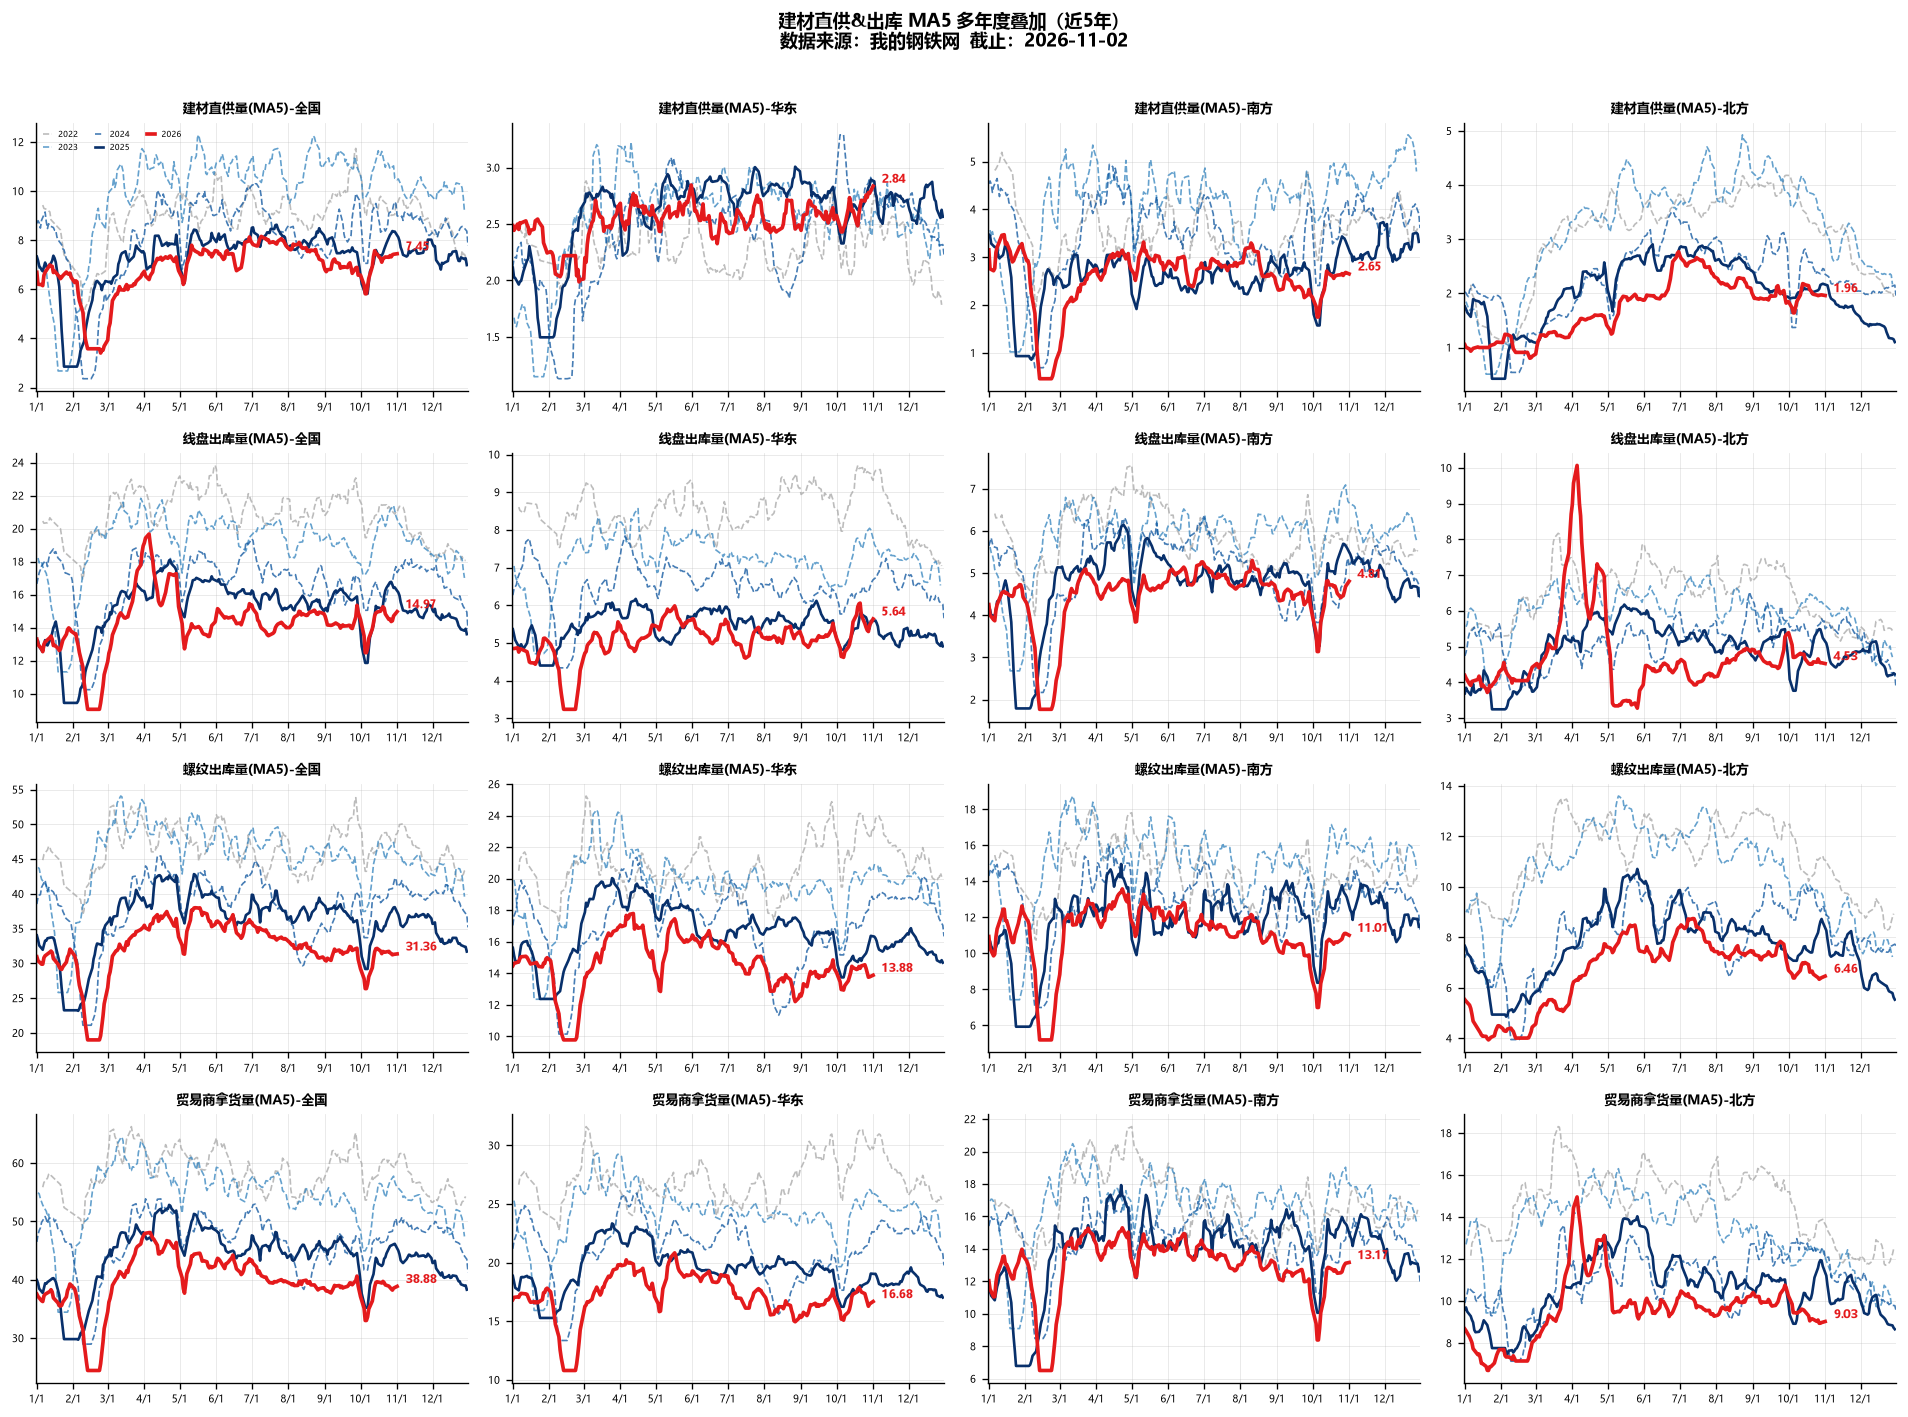
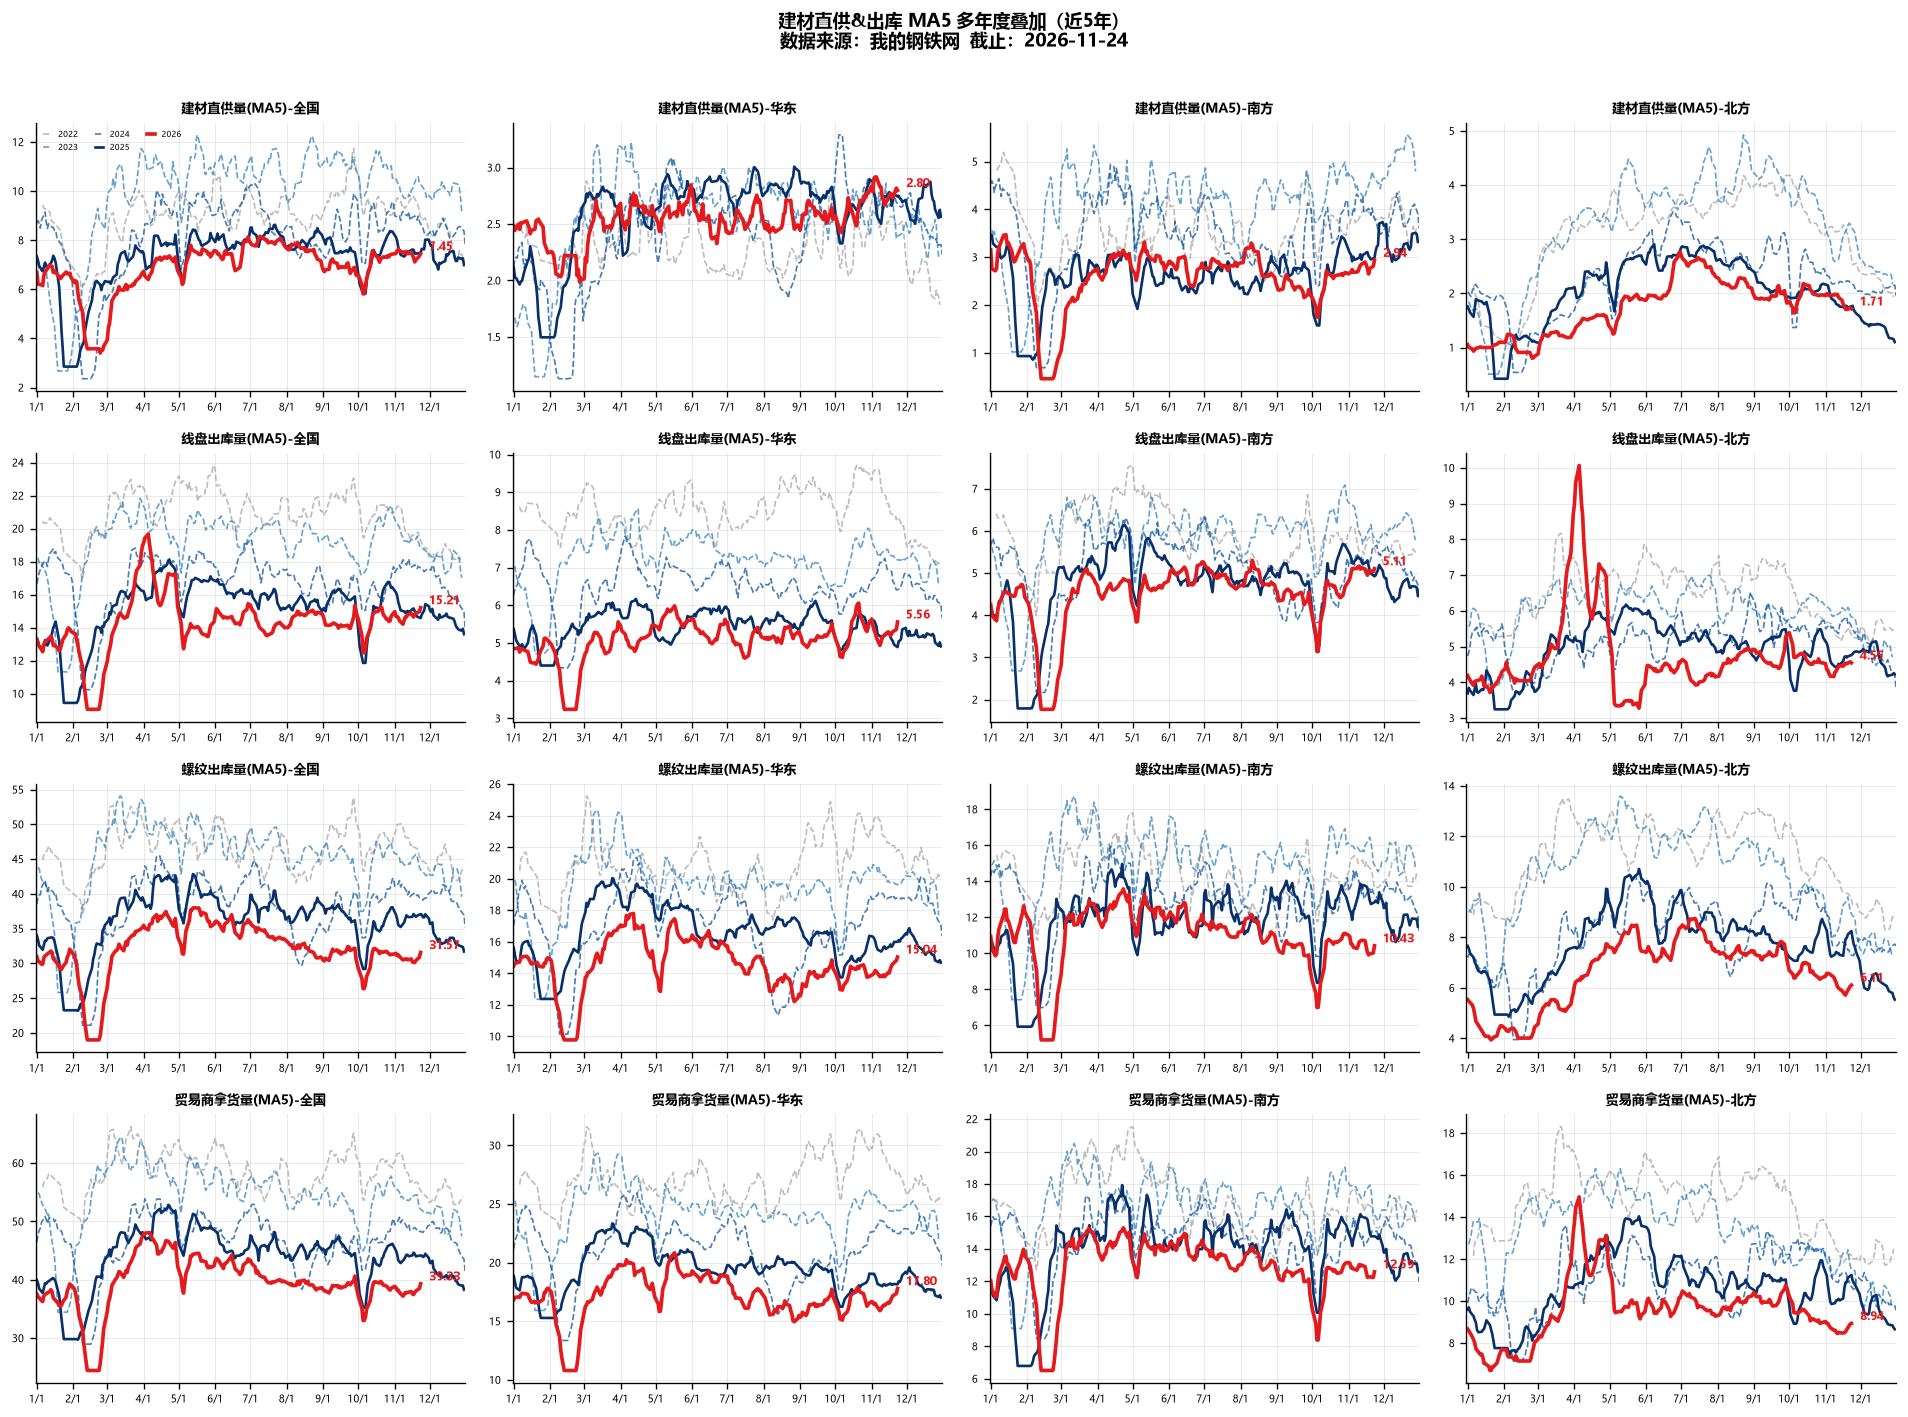
chore(juanluo-charts): 更新 4 个文件 — zhigong/index.html, zhigong/page1_直供出库.png, zhigong/page2_直供占比.png, assets/app.js

diff --git a/zhigong/index.html b/zhigong/index.html
@@ -37,7 +37,7 @@
 <div class="container">
   <div class="card">
     <div class="card-title">直供&出库日度跟踪</div>
-    <div class="card-body"><table class='data'><tr class="head"><th class="corner" rowspan="2">日期</th><th colspan="4" style="background:#4a7ab8;color:#fff">建材直供量</th><th colspan="4" style="background:#5a9b6e;color:#fff">线盘出库量</th><th colspan="4" style="background:#c9a855;color:#fff">螺纹出库量</th></tr><tr class="subhead"><th>建材直供量:全国</th><th>建材直供量:华东</th><th>建材直供量:南方</th><th>建材直供量:北方</th><th>线盘出库量:全国</th><th>线盘出库量:华东</th><th>线盘出库量:南方</th><th>线盘出库量:北方</th><th>螺纹出库量:全国</th><th>螺纹出库量:华东</th><th>螺纹出库量:南方</th><th>螺纹出库量:北方</th></tr><tr><td class="date">2026/10/20</td><td>7.15</td><td>2.78</td><td>2.55</td><td>1.83</td><td>15.06</td><td>6.07</td><td>4.51</td><td>4.49</td><td>30.86</td><td>14.46</td><td>10.39</td><td>6.02</td></tr><tr><td class="date">2026/10/21</td><td>7.68</td><td>2.71</td><td>2.95</td><td>2.02</td><td>15.19</td><td>5.80</td><td>4.59</td><td>4.79</td><td>33.14</td><td>15.02</td><td>11.20</td><td>6.92</td></tr><tr><td class="date">2026/10/22</td><td>6.97</td><td>2.58</td><td>2.43</td><td>1.96</td><td>14.38</td><td>5.48</td><td>4.23</td><td>4.67</td><td>31.22</td><td>14.24</td><td>10.25</td><td>6.73</td></tr><tr><td class="date">2026/10/23</td><td>7.45</td><td>2.86</td><td>2.64</td><td>1.95</td><td>13.85</td><td>5.14</td><td>4.21</td><td>4.51</td><td>32.04</td><td>14.77</td><td>11.00</td><td>6.27</td></tr><tr><td class="date">2026/10/26</td><td>7.28</td><td>2.59</td><td>2.60</td><td>2.08</td><td>14.00</td><td>5.09</td><td>4.55</td><td>4.36</td><td>31.37</td><td>14.23</td><td>10.89</td><td>6.26</td></tr><tr><td class="date">2026/10/27</td><td>7.49</td><td>3.04</td><td>2.67</td><td>1.78</td><td>15.19</td><td>5.58</td><td>4.66</td><td>4.95</td><td>29.88</td><td>13.36</td><td>10.68</td><td>5.84</td></tr><tr><td class="date">2026/10/28</td><td>7.42</td><td>2.61</td><td>2.76</td><td>2.05</td><td>14.42</td><td>5.40</td><td>4.66</td><td>4.36</td><td>32.48</td><td>13.65</td><td>12.22</td><td>6.60</td></tr><tr><td class="date">2026/10/29</td><td>7.41</td><td>2.79</td><td>2.63</td><td>1.99</td><td>14.61</td><td>5.31</td><td>4.74</td><td>4.56</td><td>30.39</td><td>12.77</td><td>10.73</td><td>6.89</td></tr><tr><td class="date">2026/10/30</td><td>7.54</td><td>2.83</td><td>2.75</td><td>1.96</td><td>15.30</td><td>5.99</td><td>4.81</td><td>4.51</td><td>32.35</td><td>14.87</td><td>11.05</td><td>6.43</td></tr><tr><td class="date">2026/11/02</td><td>7.39</td><td>2.91</td><td>2.45</td><td>2.02</td><td>15.32</td><td>5.91</td><td>5.17</td><td>4.25</td><td>31.70</td><td>14.76</td><td>10.37</td><td>6.56</td></tr><tr class="ma5"><td class="date">MA5</td><td>7.45</td><td>2.84</td><td>2.65</td><td>1.96</td><td>14.97</td><td>5.64</td><td>4.81</td><td>4.53</td><td>31.36</td><td>13.88</td><td>11.01</td><td>6.46</td></tr><tr class="mom"><td class="date">MA5周环比</td><td style="background:#5cb85c;color:#fff;font-weight:bold">+0.14</td><td style="background:#5cb85c;color:#fff;font-weight:bold">+0.13</td><td style="background:#5cb85c;color:#fff;font-weight:bold">+0.02</td><td style="background:#d9534f;color:#fff;font-weight:bold">-0.01</td><td style="background:#5cb85c;color:#fff;font-weight:bold">+0.47</td><td style="background:#5cb85c;color:#fff;font-weight:bold">+0.12</td><td style="background:#5cb85c;color:#fff;font-weight:bold">+0.39</td><td style="background:#d9534f;color:#fff;font-weight:bold">-0.04</td><td style="background:#d9534f;color:#fff;font-weight:bold">-0.37</td><td style="background:#d9534f;color:#fff;font-weight:bold">-0.66</td><td style="background:#5cb85c;color:#fff;font-weight:bold">+0.26</td><td style="background:#5cb85c;color:#fff;font-weight:bold">+0.02</td></tr></table></div>
+    <div class="card-body"><table class='data'><tr class="head"><th class="corner" rowspan="2">日期</th><th colspan="4" style="background:#4a7ab8;color:#fff">建材直供量</th><th colspan="4" style="background:#5a9b6e;color:#fff">线盘出库量</th><th colspan="4" style="background:#c9a855;color:#fff">螺纹出库量</th></tr><tr class="subhead"><th>建材直供量:全国</th><th>建材直供量:华东</th><th>建材直供量:南方</th><th>建材直供量:北方</th><th>线盘出库量:全国</th><th>线盘出库量:华东</th><th>线盘出库量:南方</th><th>线盘出库量:北方</th><th>螺纹出库量:全国</th><th>螺纹出库量:华东</th><th>螺纹出库量:南方</th><th>螺纹出库量:北方</th></tr><tr><td class="date">2026/11/11</td><td>7.79</td><td>2.72</td><td>3.15</td><td>1.92</td><td>15.26</td><td>5.52</td><td>5.37</td><td>4.38</td><td>31.22</td><td>13.80</td><td>11.36</td><td>6.06</td></tr><tr><td class="date">2026/11/12</td><td>7.96</td><td>2.79</td><td>3.21</td><td>1.96</td><td>14.33</td><td>5.02</td><td>4.92</td><td>4.39</td><td>31.03</td><td>14.14</td><td>10.83</td><td>6.07</td></tr><tr><td class="date">2026/11/13</td><td>6.88</td><td>2.58</td><td>2.59</td><td>1.71</td><td>15.08</td><td>5.53</td><td>4.98</td><td>4.58</td><td>30.45</td><td>14.01</td><td>10.50</td><td>5.93</td></tr><tr><td class="date">2026/11/16</td><td>7.22</td><td>2.79</td><td>2.69</td><td>1.74</td><td>14.58</td><td>5.27</td><td>5.03</td><td>4.28</td><td>29.84</td><td>14.43</td><td>9.89</td><td>5.51</td></tr><tr><td class="date">2026/11/17</td><td>7.12</td><td>2.87</td><td>2.59</td><td>1.66</td><td>14.50</td><td>5.02</td><td>4.85</td><td>4.63</td><td>28.60</td><td>13.77</td><td>9.25</td><td>5.58</td></tr><tr><td class="date">2026/11/18</td><td>7.27</td><td>2.81</td><td>2.74</td><td>1.71</td><td>14.71</td><td>5.12</td><td>4.97</td><td>4.62</td><td>30.66</td><td>15.18</td><td>9.84</td><td>5.64</td></tr><tr><td class="date">2026/11/19</td><td>7.10</td><td>2.76</td><td>2.64</td><td>1.71</td><td>15.10</td><td>5.31</td><td>5.23</td><td>4.56</td><td>31.08</td><td>15.08</td><td>10.10</td><td>5.91</td></tr><tr><td class="date">2026/11/20</td><td>7.28</td><td>2.44</td><td>3.15</td><td>1.69</td><td>15.53</td><td>5.79</td><td>5.22</td><td>4.52</td><td>31.86</td><td>14.57</td><td>10.82</td><td>6.47</td></tr><tr><td class="date">2026/11/23</td><td>8.02</td><td>3.21</td><td>2.95</td><td>1.86</td><td>14.99</td><td>5.55</td><td>4.90</td><td>4.54</td><td>32.33</td><td>15.49</td><td>10.11</td><td>6.73</td></tr><tr><td class="date">2026/11/24</td><td>7.58</td><td>2.77</td><td>3.21</td><td>1.60</td><td>15.72</td><td>6.02</td><td>5.21</td><td>4.49</td><td>31.91</td><td>14.87</td><td>11.26</td><td>5.78</td></tr><tr class="ma5"><td class="date">MA5</td><td>7.45</td><td>2.80</td><td>2.94</td><td>1.71</td><td>15.21</td><td>5.56</td><td>5.11</td><td>4.55</td><td>31.57</td><td>15.04</td><td>10.43</td><td>6.11</td></tr><tr class="mom"><td class="date">MA5周环比</td><td style="background:#5cb85c;color:#fff;font-weight:bold">+0.06</td><td style="background:#5cb85c;color:#fff;font-weight:bold">+0.05</td><td style="background:#5cb85c;color:#fff;font-weight:bold">+0.09</td><td style="background:#d9534f;color:#fff;font-weight:bold">-0.08</td><td style="background:#5cb85c;color:#fff;font-weight:bold">+0.46</td><td style="background:#5cb85c;color:#fff;font-weight:bold">+0.29</td><td style="background:#5cb85c;color:#fff;font-weight:bold">+0.08</td><td style="background:#5cb85c;color:#fff;font-weight:bold">+0.09</td><td style="background:#5cb85c;color:#fff;font-weight:bold">+1.34</td><td style="background:#5cb85c;color:#fff;font-weight:bold">+1.01</td><td style="background:#5cb85c;color:#fff;font-weight:bold">+0.06</td><td style="background:#5cb85c;color:#fff;font-weight:bold">+0.28</td></tr></table></div>
   </div>
   <div class="card">
     <div class="card-title">建材直供&出库日度跟踪</div>

diff --git a/assets/app.js b/assets/app.js
@@ -25,7 +25,7 @@
   // 这样任何 build_*.py 重建数据时都不会把它冲掉。
   // src 相对站点根目录；asOf 仅供顶部信息栏显示（更新直供数据时同步改这一处）。
   var EMBED_DATASETS = [
-    { id: 'zhigong', name: '建材直供', src: 'zhigong/index.html', asOf: '11-02' }
+    { id: 'zhigong', name: '建材直供', src: 'zhigong/index.html', asOf: '11-24' }
   ];
 
   // 外链数据集：tab 上显示一个入口，点击在新窗口打开外部网址（本机不托管页面）
